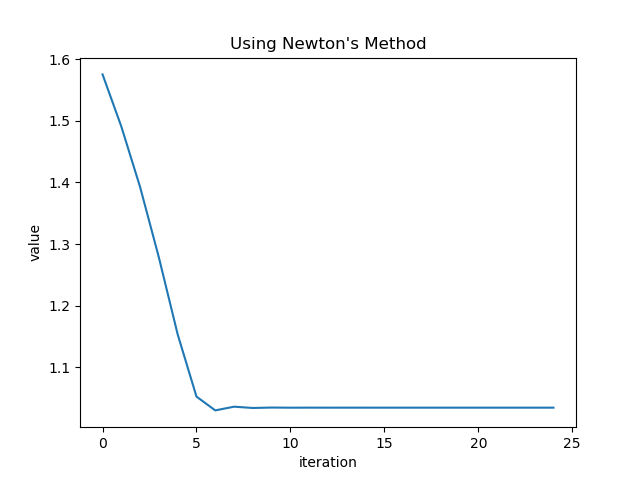
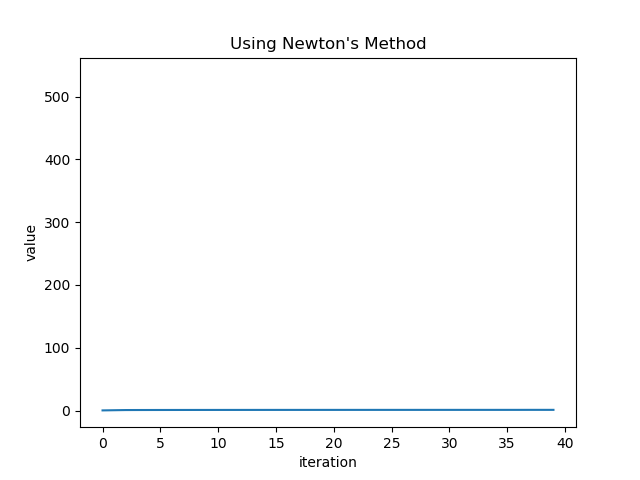
fixed newton.py

diff --git a/continuous_system/03/newton.py b/continuous_system/03/newton.py
@@ -2,14 +2,21 @@ import os
 import random
 import math as m
 import numpy as np
-import matplotlib
 import matplotlib.pyplot as plt
 
 def f(x):
-	return m.exp(x ** 4) - m.pi
+	try:
+		e = m.exp(x ** 4)
+	except:
+		e = float('inf')
+	return e - m.pi
 
 def diff(x):
-	return m.exp(x ** 4) * 4 * (x ** 3)
+	try:
+		e = m.exp(x ** 4)
+	except:
+		e = float('inf')
+	return e * 4 * (x ** 3)
 	
 def newton(f, diff, init_value, threshold, max_iter, file_name):
 	iter_list = []
@@ -29,31 +36,22 @@ def newton(f, diff, init_value, threshold, max_iter, file_name):
 	plt.title("Using Newton's Method")
 	plt.savefig(file_name)
 
-def slow_newton(f, diff, init_value, weight, param, threshold, max_iter, file_name):
+def slow_newton(f, diff, init_value, weight, param, threshold, max_iter,file_name):
 	iter_list = []
 	val = init_value
 	val_list = []
 	for i in range(max_iter):
-		limit = 0
-		try:
-			l = abs(f(val - weight ** limit * (f(val) / diff(val))))
-		except OverflowError:
-			l = float('inf')
-			pass
-		r = (1 - param * (weight ** limit)) * abs(f(val))
+		weight_power = 0
+		l = abs(f(val - weight ** weight_power * (f(val) / diff(val))))
+		r = (1 - param * (weight ** weight_power)) * abs(f(val))
 		while l >= r or l == float('inf'):
-			if (limit > -100):
-				limit -= 1
+			if (weight_power > - max_iter):
+				weight_power -= 1
 			else:
 				break
-			try:
-				l = abs(f(val - weight ** limit * f(val) / diff(val)))
-			except OverflowError:
-				l = float('inf')
-				pass
-			r = (1 - param * (weight ** limit)) * abs(f(val))
-		print(val)
-		val = val - (weight ** limit) * (f(val) / diff(val))
+			l = abs(f(val - weight ** weight_power * f(val) / diff(val)))
+			r = (1 - param * (weight ** weight_power)) * abs(f(val))
+		val = val - (weight ** weight_power) * (f(val) / diff(val))
 		err = f(val)
 		if abs(err) > threshold:
 			iter_list.append(i)
@@ -68,14 +66,6 @@ def slow_newton(f, diff, init_value, weight, param, threshold, max_iter, file_na
 
 if __name__ == '__main__':
 	init_value = random.uniform(-2.0, 2.0)
-	init_value = 0.3
-	try:
-		newton(f, diff, init_value, 0.0000000001, 100, 'newton.png')
-	except OverflowError:
-		print("f(x) became too big number")
-		pass
-	#try:
+	init_value = 0.1
 	slow_newton(f, diff, init_value, 20, 0.9, 0.0000000001, 10000, 'slow_newton.png')
-	#except OverflowError:
-		#print("f(x) became too big number")
-		# pass
+	newton(f, diff, init_value, 0.0000000001, 10000, 'newton.png')
